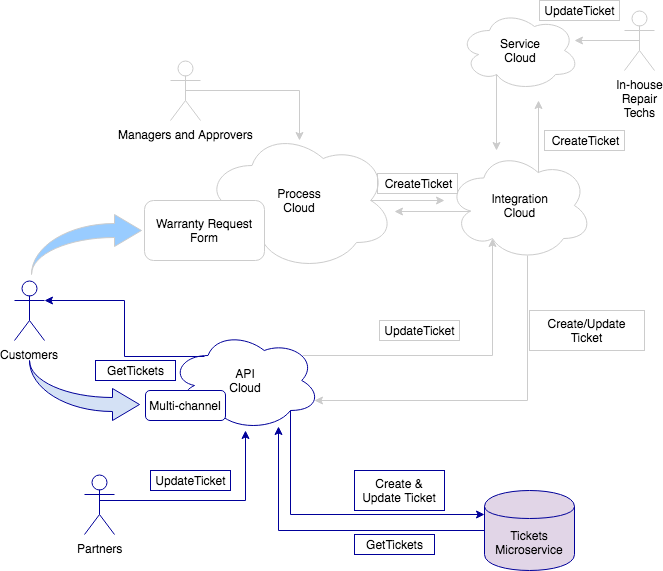
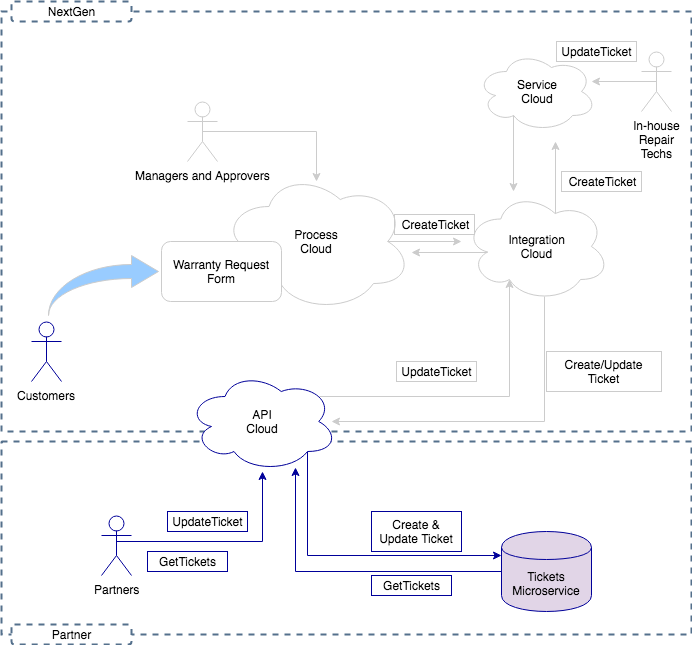
Updated scenario to place microservice at partner level

diff --git a/scenarios/warrantyClaim/README.md b/scenarios/warrantyClaim/README.md
@@ -13,15 +13,14 @@ Here are some of the current pain-points:
 ### Proposed Solution
 Here are some of the key aspects of the solution
 - Use a modern service ticketing system.  
-  - NexGen chose and implemented **Oracle Service Cloud**.  This makes it easier for all of NexGen sales and service employees to take care of the customer
+  - NexGen selected and implemented **Oracle Service Cloud**.  This makes it easier for all of NexGen sales and service employees to take care of the customer
 - Create a modern web interface for customers to be able to submit warranty claims.  This interface should be part of a process management system that has the ability to connect to various legacy back-end systems as well as SaaS applications.  
-  - NexGen chose and implemented **Oracle Integration Cloud**.  This eliminates many manual, error-prone steps as well as provides great flexibility for the future
+  - NexGen selected and implemented **Oracle Integration Cloud**.  This eliminates many manual, error-prone steps as well as provides great flexibility for the future
 -  Enter into a series of partnerships with service firms who can take care of repairs for certain product lines.  These partners are expected to represent NexGen by completing the repair and updating ticket statuses as if the product were repaired or replaced directly by NexGen
-  - After performing extensive research, NexGen chose API Platform Cloud Service which is the only solution that provides complete support for the API Management lifecycle
-  - Using **API Platform Cloud Service**, NexGen will provide an API to partners to be able to query and update Service Tickets. 
-    - This API will give the partner the necessary access without having to add the partner to back-end/SaaS applications like Oracle Service Cloud.
-    - Some of the partners have their own ticketing system which they will be able to integrate with the API that NexGen will provide
-    - Through this process, NexGen discovered that it would be a great ideal to implement a microservice to handle query requests.  NexGen may want to in the future provide a mobile app to their customers and they realize that customers may check the status of their warranty claim quite often.  They want to offload that query traffic to a microservice.
+  - After performing extensive research, NexGen chose **API Platform Cloud Service** which is the only solution that provides complete support for the API Management lifecycle
+  - Using **API Platform Cloud Service**, NexGen will provide an API to partners to be able to query and update incidents. 
+    - This API will give the partner the necessary access without having to add the partner to back-end/SaaS applications like **Oracle Service Cloud**
+  - The partner has its own microservice based service ticket system and uses **API Platform Cloud Service** to provide an API for creating, querying, and updating Service Tickets
 
 ### Products in the solution
 1. Oracle Integration Cloud (Covered in other labs)
